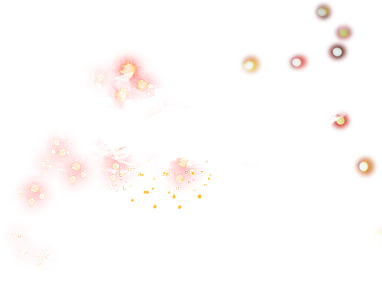
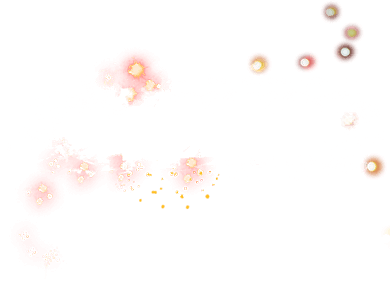
Centered the player names and added wider background textures

diff --git a/src/main/java/com/codingame/game/View/PlayerTextView.java b/src/main/java/com/codingame/game/View/PlayerTextView.java
@@ -23,8 +23,7 @@ public class PlayerTextView extends AbstractView {
             new Vector2(Constants.OPPONENT_DECK_POS_X, OPPONENT_INFO_POS_Y));
 
     private final int NAME_VERTICAL_OFFSET = 110;
-    private List<Integer> BACKGROUND_HORIZONTAL_OFFSET = Arrays.asList(-15, -5);
-    private int BACKGROUND_VERTICAL_OFFSET = 120;
+    private int BACKGROUND_VERTICAL_OFFSET = 123;
 
     private Group group;
     private Text name;
@@ -68,7 +67,7 @@ public class PlayerTextView extends AbstractView {
         Referee.nicksModule.registerNickname(name);
         background = entityModule.createSprite()
                 .setImage(String.format("background_name_%d.png", id))
-                .setX(BACKGROUND_HORIZONTAL_OFFSET.get(id))
+                .setX(0)
                 .setY(BACKGROUND_VERTICAL_OFFSET * orientation)
                 .setZIndex(0)
                 .setAnchor(0.5);
